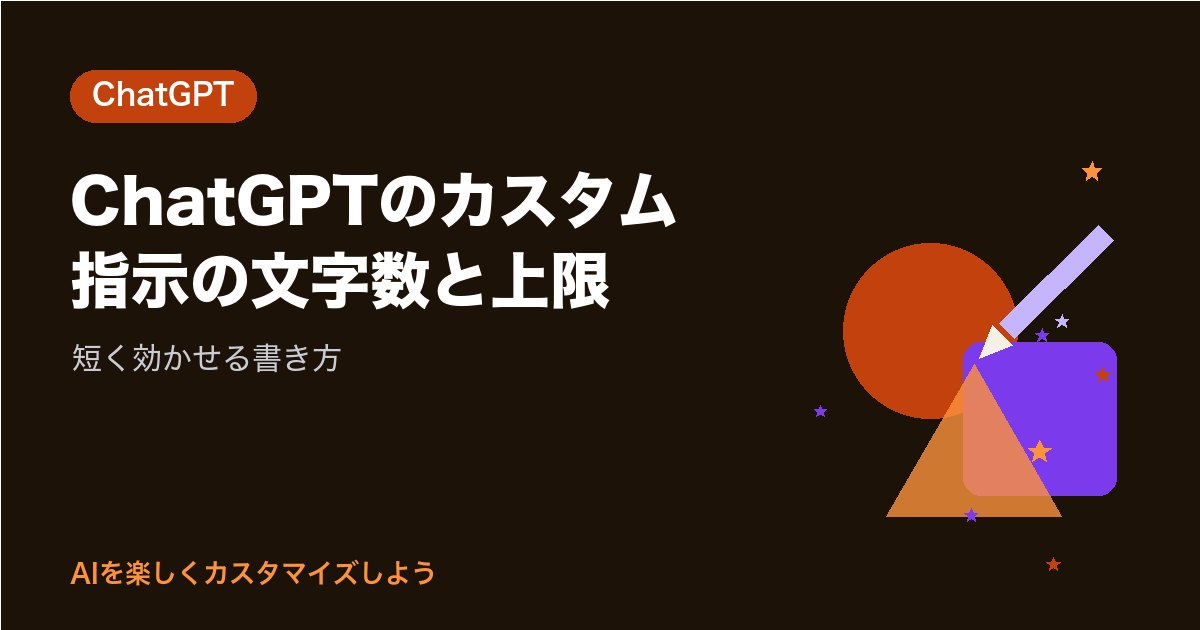
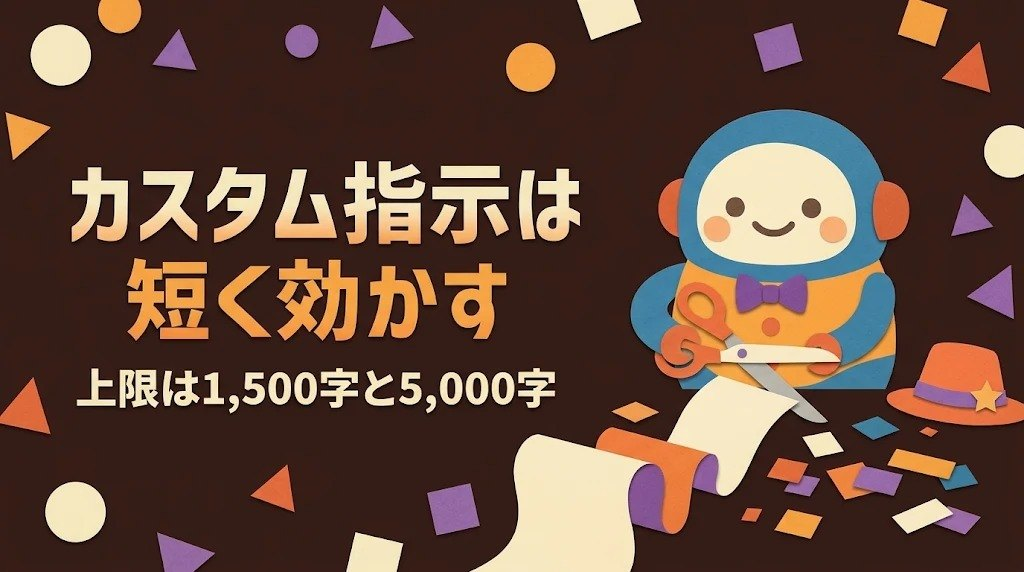
Use Gemini-made eyecatch images matching the header

diff --git a/docs/articles/chatgpt-custom-instructions-length.html b/docs/articles/chatgpt-custom-instructions-length.html
@@ -217,7 +217,7 @@ article ul li::marker{content:"▲ ";color:#a678ff;font-size:.8em}
 <script>window.dataLayer=window.dataLayer||[];function gtag(){dataLayer.push(arguments);}gtag('js',new Date());gtag('config','G-EHWF25C1RB');</script><script type="application/ld+json">{"@context": "https://schema.org", "@type": "Article", "headline": "ChatGPTのカスタム指示の文字数と上限｜短く効かせる書き方", "description": "ChatGPTのカスタム指示の文字数の上限は、FreeとGoが1,500文字、Plus・Pro・Business・Enterprise・Educationが5,000文字です（2026年11月6日に公式ヘルプで確認）。短く効かせる書き方は「数字で書く・1行1つ・場面で分ける」の3つ。長い指示と短い指示の前後比較、コピペできる短い例、入りきらないときの逃がし先まで紹介します。", "datePublished": "2026-11-06", "image": "https://masabee1029.github.io/ai-customize-fun/img/articles/chatgpt-custom-instructions-length.jpg", "author": {"@type": "Person", "name": "運営者", "url": "https://masabee1029.github.io/ai-customize-fun/about.html"}, "publisher": {"@type": "Organization", "name": "AIを楽しくカスタマイズしよう"}, "mainEntityOfPage": "https://masabee1029.github.io/ai-customize-fun/articles/chatgpt-custom-instructions-length.html"}</script><script type="application/ld+json">{"@context": "https://schema.org", "@type": "BreadcrumbList", "itemListElement": [{"@type": "ListItem", "position": 1, "name": "ホーム", "item": "https://masabee1029.github.io/ai-customize-fun/index.html"}, {"@type": "ListItem", "position": 2, "name": "ChatGPT", "item": "https://masabee1029.github.io/ai-customize-fun/category/chatgpt.html"}, {"@type": "ListItem", "position": 3, "name": "ChatGPTのカスタム指示の文字数と上限｜短く効かせる書き方", "item": "https://masabee1029.github.io/ai-customize-fun/articles/chatgpt-custom-instructions-length.html"}]}</script></head><body>
 <header><div class="wrap"><div class="top"><a class="logo" href="../index.html">AIを<span>楽しく</span>カスタマイズしよう</a><span class="tagline">4つのAIを自分好みに</span></div>
 <nav class="gnav"><a href="../index.html">ホーム</a><a href="../category/chatgpt.html" class="on">ChatGPT</a><a href="../category/gemini.html">Gemini</a><a href="../category/claude.html">Claude</a><a href="../category/copilot.html">Copilot</a><a href="../category/anim.html">動くグラフ</a></nav></div></header>
-<div class="wrap"><div class="layout"><main><div class="crumb"><a href="../index.html">ホーム</a> ＞ <a href="../category/chatgpt.html">ChatGPT</a> ＞ ChatGPTのカスタム指示の文字数と上限｜短く効かせる書き方</div><article><a class="tag" href="../category/chatgpt.html">ChatGPT</a><span class="date">2026-11-06</span><h1>ChatGPTのカスタム指示の文字数と上限｜短く効かせる書き方</h1><p class="prline">※この記事はプロモーション（広告）を含みます</p><img class="eyecatch" src="../img/articles/chatgpt-custom-instructions-length.jpg" alt="ChatGPTのカスタム指示の文字数と上限｜短く効かせる書き方（図形と文字で作ったイメージ画像）"><div class="lead"><strong>この記事でわかること</strong>ChatGPTのカスタム指示の文字数の上限は、FreeとGoが1,500文字、Plus・Pro・Business・Enterprise・Educationが5,000文字です（2026年11月6日に公式ヘルプで確認）。短く効かせる書き方は「数字で書く・1行1つ・場面で分ける」の3つ。長い指示と短い指示の前後比較、コピペできる短い例、入りきらないときの逃がし先まで紹介します。</div><p>ChatGPTのカスタム指示、書きたいことが多くて、上限に引っかかったことはありませんか？<br><strong>ChatGPTのカスタム指示の文字数の上限は、FreeとGoが最大1,500文字、Plus・Pro・Enterprise・Business・Educationが最大5,000文字です。</strong> 短く効かせる書き方は「数字で書く」「1行に1つ」「場面で分ける」の3つで、無料版の1,500文字でも、仕事と遊びの両方を十分に書き分けられます。<br>この記事では、上限の数字と書く場所、長い指示を短くした前後比較、コピペできる短い例、入りきらないときの逃がし先を、公式ヘルプで確かめた内容でお伝えします。</p>
+<div class="wrap"><div class="layout"><main><div class="crumb"><a href="../index.html">ホーム</a> ＞ <a href="../category/chatgpt.html">ChatGPT</a> ＞ ChatGPTのカスタム指示の文字数と上限｜短く効かせる書き方</div><article><a class="tag" href="../category/chatgpt.html">ChatGPT</a><span class="date">2026-11-06</span><h1>ChatGPTのカスタム指示の文字数と上限｜短く効かせる書き方</h1><p class="prline">※この記事はプロモーション（広告）を含みます</p><img class="eyecatch" src="../img/articles/chatgpt-custom-instructions-length.jpg" alt="AIで作成したイメージ画像：ChatGPTのカスタム指示の文字数と上限｜短く効かせる書き方"><div class="lead"><strong>この記事でわかること</strong>ChatGPTのカスタム指示の文字数の上限は、FreeとGoが1,500文字、Plus・Pro・Business・Enterprise・Educationが5,000文字です（2026年11月6日に公式ヘルプで確認）。短く効かせる書き方は「数字で書く・1行1つ・場面で分ける」の3つ。長い指示と短い指示の前後比較、コピペできる短い例、入りきらないときの逃がし先まで紹介します。</div><p>ChatGPTのカスタム指示、書きたいことが多くて、上限に引っかかったことはありませんか？<br><strong>ChatGPTのカスタム指示の文字数の上限は、FreeとGoが最大1,500文字、Plus・Pro・Enterprise・Business・Educationが最大5,000文字です。</strong> 短く効かせる書き方は「数字で書く」「1行に1つ」「場面で分ける」の3つで、無料版の1,500文字でも、仕事と遊びの両方を十分に書き分けられます。<br>この記事では、上限の数字と書く場所、長い指示を短くした前後比較、コピペできる短い例、入りきらないときの逃がし先を、公式ヘルプで確かめた内容でお伝えします。</p>
 <p><strong>確認日：2026年11月6日</strong>（公式のヘルプで確認。画面や名前は変わることがあります）</p>
 <p><strong>この記事でわかること：</strong> 上限はFreeとGoが1,500文字、有料の多くは5,000文字。短く書くほど、1行ずつがはっきり効きやすくなります。</p>
 <div class="toc"><strong>目次</strong><ol><li><a href="#s1">カスタム指示の文字数の上限はプランで2種類</a></li><li><a href="#s2">長く書くより、短く書くほうが効きやすい理由</a></li><li><a href="#s3">長い指示と短い指示の前後比較</a></li><li><a href="#s4">コピペで使える「短く効かせる」例</a></li><li><a href="#s5">上限に入りきらないときの逃がし先</a></li><li><a href="#s6">向かない人・注意点と、書かないほうがいいこと</a></li><li><a href="#s7">確かめた公式の情報</a></li><li><a href="#s8">まとめ</a></li></ol></div><div class="picks"><div class="picks-h">この記事で役立つ本・道具</div><div class="pick"><div><strong>ChatGPTの入門書</strong><span>設定の前に全体像を</span></div><a class="btn amz" rel="nofollow sponsored noopener" target="_blank" href="https://www.amazon.co.jp/s?k=ChatGPT+%E6%9C%AC+%E5%85%A5%E9%96%80&amp;tag=masabee00001-22">Amazon</a><a class="btn rkt" rel="nofollow sponsored noopener" target="_blank" href="https://hb.afl.rakuten.co.jp/hgc/5867408e.a723d753.5867408f.9cd38db5/?pc=https%3A%2F%2Fsearch.rakuten.co.jp%2Fsearch%2Fmall%2FChatGPT%2520%25E6%259C%25AC%2520%25E5%2585%25A5%25E9%2596%2580%2F">楽天</a></div><div class="pick"><div><strong>プロンプトの本</strong><span>カスタム指示の書き方に効く</span></div><a class="btn amz" rel="nofollow sponsored noopener" target="_blank" href="https://www.amazon.co.jp/s?k=%E3%83%97%E3%83%AD%E3%83%B3%E3%83%97%E3%83%88+%E6%9C%AC&amp;tag=masabee00001-22">Amazon</a><a class="btn rkt" rel="nofollow sponsored noopener" target="_blank" href="https://hb.afl.rakuten.co.jp/hgc/5867408e.a723d753.5867408f.9cd38db5/?pc=https%3A%2F%2Fsearch.rakuten.co.jp%2Fsearch%2Fmall%2F%25E3%2583%2597%25E3%2583%25AD%25E3%2583%25B3%25E3%2583%2597%25E3%2583%2588%2520%25E6%259C%25AC%2F">楽天</a></div></div><h2 id="s1">カスタム指示の文字数の上限はプランで2種類</h2>
@@ -272,7 +272,7 @@ article ul li::marker{content:"▲ ";color:#a678ff;font-size:.8em}
 <ul><li><a href="https://help.openai.com/ja-jp/articles/8096356-chatgpt-custom-instructions" target="_blank" rel="noopener">ChatGPT カスタム指示（OpenAI ヘルプセンター）</a></li><li><a href="https://help.openai.com/ja-jp/articles/10169521-projects-in-chatgpt" target="_blank" rel="noopener">ChatGPT のプロジェクト（OpenAI ヘルプセンター）</a></li><li><a href="https://help.openai.com/ja-jp/articles/8590148-memory-in-chatgpt" target="_blank" rel="noopener">ChatGPT のメモリ（OpenAI ヘルプセンター）</a></li></ul>
 <div class="picks"><div class="picks-h">次の一歩に役立つ本・道具</div><div class="pick"><div><strong>ChatGPTの入門書</strong><span>設定の前に全体像を</span></div><a class="btn amz" rel="nofollow sponsored noopener" target="_blank" href="https://www.amazon.co.jp/s?k=ChatGPT+%E6%9C%AC+%E5%85%A5%E9%96%80&amp;tag=masabee00001-22">Amazon</a><a class="btn rkt" rel="nofollow sponsored noopener" target="_blank" href="https://hb.afl.rakuten.co.jp/hgc/5867408e.a723d753.5867408f.9cd38db5/?pc=https%3A%2F%2Fsearch.rakuten.co.jp%2Fsearch%2Fmall%2FChatGPT%2520%25E6%259C%25AC%2520%25E5%2585%25A5%25E9%2596%2580%2F">楽天</a></div><div class="pick"><div><strong>プロンプトの本</strong><span>カスタム指示の書き方に効く</span></div><a class="btn amz" rel="nofollow sponsored noopener" target="_blank" href="https://www.amazon.co.jp/s?k=%E3%83%97%E3%83%AD%E3%83%B3%E3%83%97%E3%83%88+%E6%9C%AC&amp;tag=masabee00001-22">Amazon</a><a class="btn rkt" rel="nofollow sponsored noopener" target="_blank" href="https://hb.afl.rakuten.co.jp/hgc/5867408e.a723d753.5867408f.9cd38db5/?pc=https%3A%2F%2Fsearch.rakuten.co.jp%2Fsearch%2Fmall%2F%25E3%2583%2597%25E3%2583%25AD%25E3%2583%25B3%25E3%2583%2597%25E3%2583%2588%2520%25E6%259C%25AC%2F">楽天</a></div></div><div class="picks"><div class="picks-h">あわせて使えるサービス（PR）</div><div class="pick"><div><strong>PLAUD（AIボイスレコーダー）</strong><span>会議を録るだけで、AIが文字起こしと要約をしてくれる</span></div><a class="btn vc" rel="nofollow sponsored noopener" target="_blank" href="https://px.a8.net/svt/ejp?a8mat=4BELTL+7QRI2+5J4W+5YRHE">公式ストアを見る</a><img src="https://www12.a8.net/0.gif?a8mat=4BELTL+7QRI2+5J4W+5YRHE" height="1" width="1" alt="" style="border:0"></div><div class="pick"><div><strong>ConoHa AI Canvas</strong><span>インストールなしで、ブラウザだけでAI画像を作れる</span></div><a class="btn vc" rel="nofollow sponsored noopener" target="_blank" href="https://px.a8.net/svt/ejp?a8mat=4BELTL+BWSQI+50+7RTY1E">公式サイトを見る</a><img src="https://www11.a8.net/0.gif?a8mat=4BELTL+BWSQI+50+7RTY1E" height="1" width="1" alt="" style="border:0"></div><div class="pick"><div><strong>Notta（AI文字起こし）</strong><span>会議や講義の音声を、AIが文字起こしして議事録にする</span></div><a class="btn vc" rel="nofollow sponsored noopener" target="_blank" href="https://px.a8.net/svt/ejp?a8mat=4BENDR+2ZANU+5988+5YJRM">無料で試す</a><img src="https://www19.a8.net/0.gif?a8mat=4BENDR+2ZANU+5988+5YJRM" height="1" width="1" alt="" style="border:0"></div></div><div class="picks book"><div class="picks-h">著者の本（この連載の考え方を 1 冊に）</div><div class="book-row"><img class="book-cover" loading="lazy" src="../img/book1.jpg" alt="39歳からのAI仕事術 会社のPCで今日から使える39のプロンプト の表紙"><div class="book-txt"><strong>39歳からのAI仕事術 会社のPCで今日から使える39のプロンプト</strong><span>Copilot・ChatGPT・Gemini対応／著者 まさび／500円・Kindle Unlimited 対象</span><span class="book-note">会社のPCで、明日の朝からそのまま使える39の頼み方を1冊にまとめました。サイトとは別に書き下ろした内容です。</span><a class="btn amz" rel="nofollow sponsored noopener" target="_blank" href="https://www.amazon.co.jp/dp/B0HNZWNVM5?tag=masabee00001-22">Amazonで見る（Kindle）</a></div></div></div><h2 id="s8">まとめ</h2>
 <ul><li>カスタム指示の文字数の上限は、FreeとGoが1,500文字、Plus・Pro・Enterprise・Business・Educationが5,000文字</li><li>書く場所は、ウェブ版なら設定 →「パーソナライズ」の「カスタム指示」欄</li><li>長い指示より、1行に1つの短い指示のほうが、どの行が効いているか分かりやすい</li><li>短くするコツは「数字で書く」「お願いの言葉をはずす」「理由は必要なときだけ」</li><li>仕事と遊びを1つの欄に入れるなら、「メールのとき：」のように行の頭に場面を書く</li><li>入りきらないときは、プロジェクトの指示やメモリに分ける</li><li>会社の決まりを先に確かめ、社外秘・個人情報は入れない</li></ul>
-<p>ここまで読んでくださって、ありがとうございます。<br>まずは、いまのカスタム指示から「できれば」「なるべく」を1つだけ数字に書きかえてみませんか。この1つだけで十分です。浮いた時間は、ご家族との時間や、好きなことに使ってください。<br>あなたなら、最初にどの1行を短くしてみますか？</p><div class="next"><div class="next-h">今日できる次の一歩</div><p>最後まで読んでくださり、ありがとうございました。</p><p>まずは1つのAIで、あなたの呼び名か口調を1つだけ設定してみませんか。次の会話から、AIの返事が少し“あなた向け”に変わるのを感じられます。</p><p>あなたなら、AIにどんな話し方をしてほしいですか？</p></div><p class="ainote">この記事は下書きにAIを使い、内容は運営者が公式情報で確認しています。</p><script>(function(C){var R=window.matchMedia&&matchMedia("(prefers-reduced-motion: reduce)").matches;
+<p>ここまで読んでくださって、ありがとうございます。<br>まずは、いまのカスタム指示から「できれば」「なるべく」を1つだけ数字に書きかえてみませんか。この1つだけで十分です。浮いた時間は、ご家族との時間や、好きなことに使ってください。<br>あなたなら、最初にどの1行を短くしてみますか？</p><div class="next"><div class="next-h">今日できる次の一歩</div><p>最後まで読んでくださり、ありがとうございました。</p><p>まずは1つのAIで、あなたの呼び名か口調を1つだけ設定してみませんか。次の会話から、AIの返事が少し“あなた向け”に変わるのを感じられます。</p><p>あなたなら、AIにどんな話し方をしてほしいですか？</p></div><p class="ainote">この記事は下書きにAIを使い、内容は運営者が公式情報で確認しています。画像はAIで作成したイメージです。</p><script>(function(C){var R=window.matchMedia&&matchMedia("(prefers-reduced-motion: reduce)").matches;
 var art=document.querySelector("article");if(!art)return;
 /* 読んだ記事を覚えておく（カテゴリページの「読んだ」印に使う。この端末の中だけ。同じ github.io の別サイトと混ざらないよう、パス全体で覚える） */
 try{var RK="ax-read",RL=JSON.parse(localStorage.getItem(RK)||"[]"),me=location.pathname;if(RL.indexOf(me)<0){RL.push(me);localStorage.setItem(RK,JSON.stringify(RL.slice(-300)))}}catch(e){}
